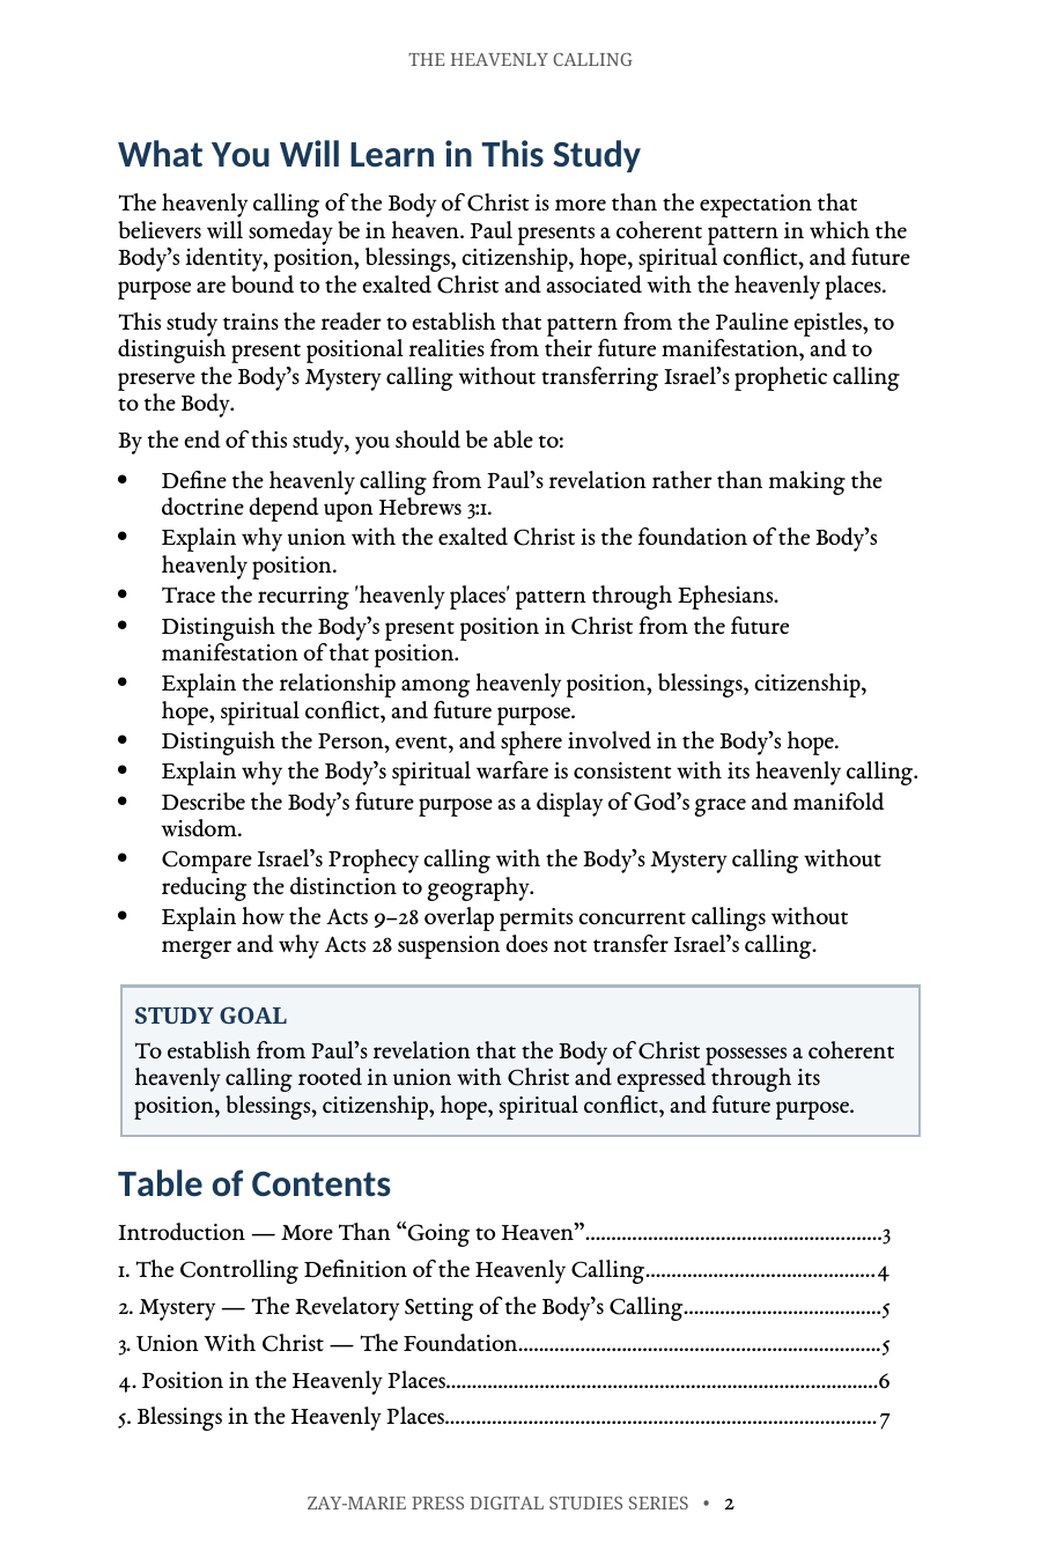
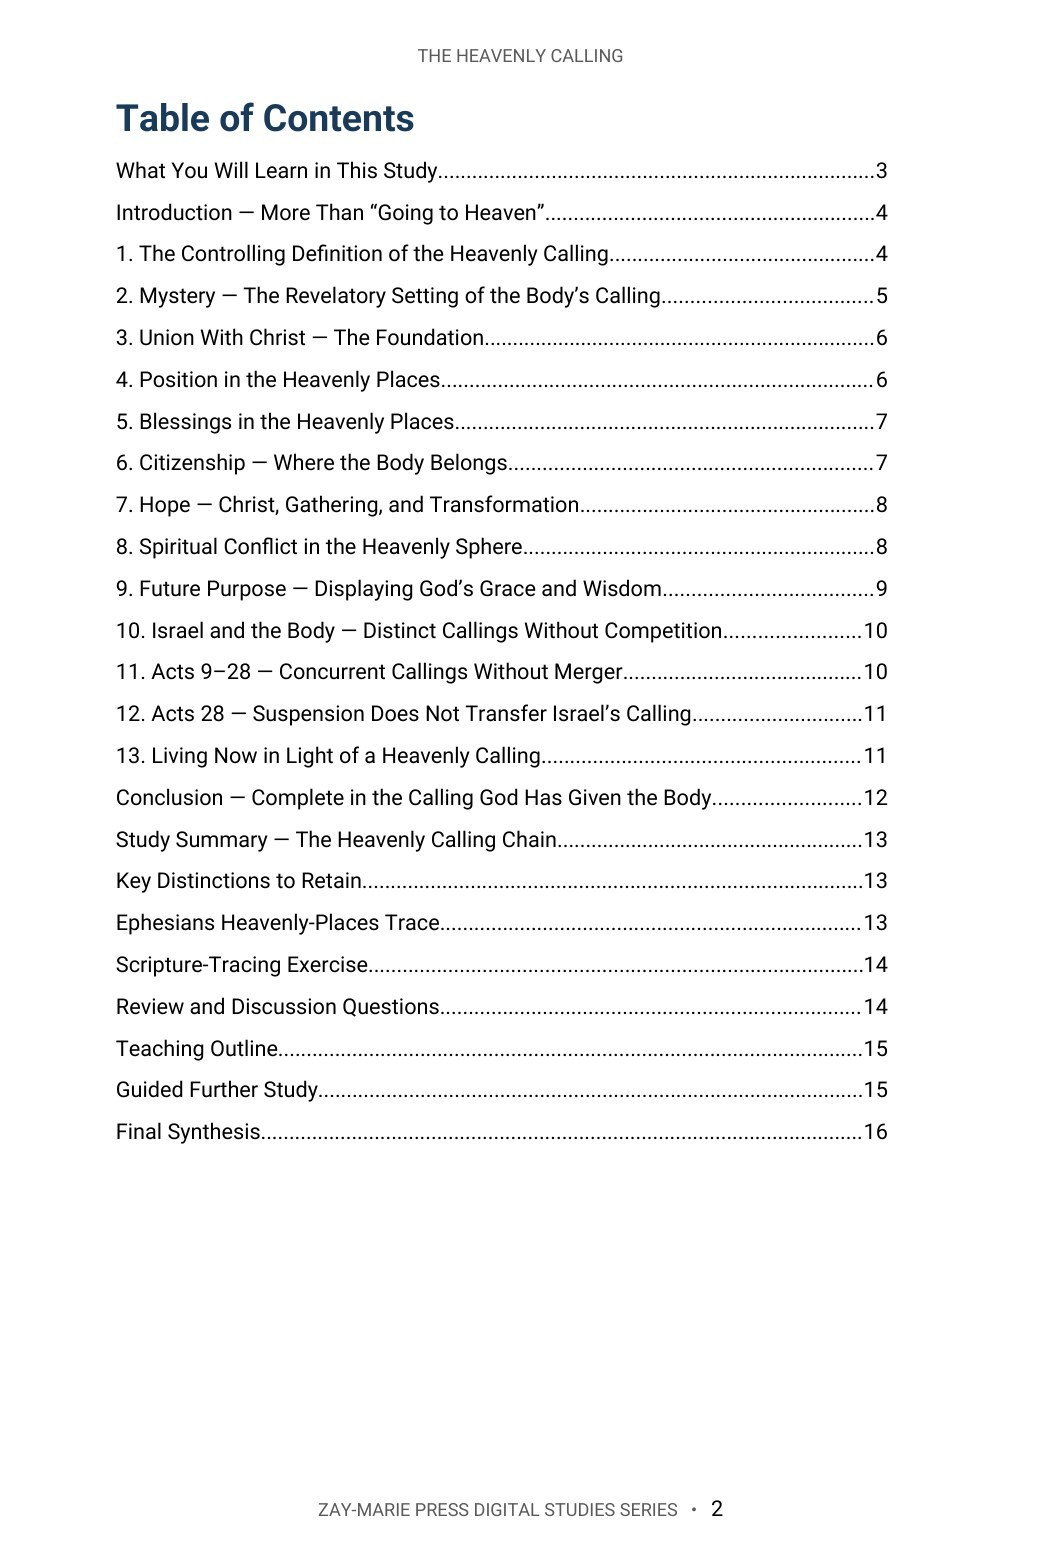
Study 5: Roboto rebuild, preview strip re-cut (TOC p2, WYWL p3, p8), 16 pages; audit tracker v1.28
Claude-Session: https://claude.ai/code/session_01TLNFW47XCW6YAMUxScR3v4

Changed region(s): [[0.0922, 0.0613, 0.8915, 0.9201], [0.3074, 0.9508, 0.707, 0.9815], [0.3996, 0.0307, 0.6148, 0.0613]]

diff --git a/study-05-the-heavenly-calling.html b/study-05-the-heavenly-calling.html
@@ -14,6 +14,6 @@
 <section class="detail-section soft"><div class="wrap"><div class="eyebrow">WHAT YOU’LL STUDY</div><h2>See the Heavenly Calling as One Coherent Pattern</h2><div class="study-points"><div class="study-point"><h3>The Calling Begins in Christ</h3><p>Establish union with the exalted Christ as the source of the Body’s position and purpose.</p></div><div class="study-point"><h3>Position and Blessings</h3><p>Examine the Body’s present position and spiritual blessings in the heavenly places in Christ.</p></div><div class="study-point"><h3>Citizenship, Hope, and Transformation</h3><p>Follow Paul’s teaching from heavenly citizenship to Christ-centered hope, gathering, and future transformation.</p></div><div class="study-point"><h3>Spiritual Conflict and Future Purpose</h3><p>See how the heavenly calling shapes present spiritual warfare and God’s display of grace and wisdom.</p></div><div class="study-point"><h3>Israel and the Body: Distinct Callings</h3><p>Preserve Israel’s prophetic, national, and Kingdom calling alongside the Body’s distinct Mystery calling.</p></div><div class="study-point"><h3>Acts 9–28 and Acts 28</h3><p>Confirm concurrent callings during the overlap and explain why suspension does not cancel or transfer Israel’s calling.</p></div></div></div></section>
 <section class="detail-section cream"><div class="wrap"><div class="eyebrow">KEY SCRIPTURES</div><h2>Examine the Passages for Yourself</h2><div class="scripture-grid"><div class="scripture-card"><h3>Romans 16:25–26</h3><p>Places the Body’s distinct calling within the Mystery kept secret and revealed through Paul.</p></div><div class="scripture-card"><h3>Ephesians 1:3</h3><p>Identifies the Body’s spiritual blessings as associated with the heavenly places in Christ.</p></div><div class="scripture-card"><h3>Ephesians 1:20–23; 2:6–7</h3><p>Connects Christ’s exaltation with the Body’s present position and future purpose.</p></div><div class="scripture-card"><h3>Philippians 3:20–21</h3><p>Joins heavenly citizenship with expectation, transformation, and conformity to Christ.</p></div><div class="scripture-card"><h3>Colossians 1:5, 27; 3:1–4</h3><p>Shows a hope centered upon Christ and a future manifestation with Him.</p></div><div class="scripture-card"><h3>Ephesians 6:10–18</h3><p>Describes the spiritual character of the Body’s present conflict and resources.</p></div><div class="scripture-card"><h3>Acts 3:21</h3><p>Locates Israel’s restitution hope within what God spoke through the prophets.</p></div><div class="scripture-card"><h3>Acts 28:25–28</h3><p>Marks the suspension of Israel’s active Prophecy Program while Mystery continues.</p></div></div></div></section>
 <section class="detail-section"><div class="wrap"><div class="eyebrow">FROM THE STUDY</div><h2>Christ-Centered Before Location-Centered</h2><div class="excerpt"><blockquote>“The heavenly calling is Christ-centered before it is location-centered. The Body possesses its heavenly position because it is in the exalted Christ.”</blockquote><p>The calling begins with union with Christ and unfolds through position, blessings, citizenship, hope, spiritual conflict, and future purpose. This full Pauline pattern preserves both the completeness of the Body’s calling and the distinctness of Israel’s prophetic promises.</p></div></div></section>
-<section class="detail-section soft"><div class="wrap"><div class="eyebrow">A LOOK INSIDE</div><h2>Preview the Study Before You Purchase</h2><p class="preview-instruction">Click any page to enlarge it for reading.</p><div class="preview-grid"><div class="preview-card"><a class="preview-image-link" data-preview-lightbox href="assets/study-05-page-2.jpg"><img src="assets/study-05-page-2.jpg" alt="Study 5 interior preview — page 2, the learning outcomes and the start of the contents list"/></a><div class="page-no">Page 2</div><h3>What You Will Learn</h3><p>See the study’s goals and the opening of the full contents list.</p></div><div class="preview-card"><a class="preview-image-link" data-preview-lightbox href="assets/study-05-page-3.jpg"><img src="assets/study-05-page-3.jpg" alt="Study 5 interior preview — page 3, table of contents continued and study outline"/></a><div class="page-no">Page 3</div><h3>Table of Contents and Study Outline</h3><p>Finish the contents list and see the outline that carries the study from calling to application.</p></div><div class="preview-card"><a class="preview-image-link" data-preview-lightbox href="assets/study-05-page-8.jpg"><img src="assets/study-05-page-8.jpg" alt="Study 5 interior preview — page 8, hope, gathering, and transformation"/></a><div class="page-no">Page 8</div><h3>Hope, Gathering, and Transformation</h3><p>Examine a hope centered upon Christ, the gathering, transformation, and the Body’s heavenly calling.</p></div></div></div></section>
+<section class="detail-section soft"><div class="wrap"><div class="eyebrow">A LOOK INSIDE</div><h2>Preview the Study Before You Purchase</h2><p class="preview-instruction">Click any page to enlarge it for reading.</p><div class="preview-grid"><div class="preview-card"><a class="preview-image-link" data-preview-lightbox href="assets/study-05-page-2.jpg"><img src="assets/study-05-page-2.jpg" alt="Study 5 interior preview — page 2, table of contents"/></a><div class="page-no">Page 2</div><h3>Table of Contents</h3><p>See the full structure of the study, from the introduction through the final synthesis.</p></div><div class="preview-card"><a class="preview-image-link" data-preview-lightbox href="assets/study-05-page-3.jpg"><img src="assets/study-05-page-3.jpg" alt="Study 5 interior preview — page 3, what you will learn and study outline"/></a><div class="page-no">Page 3</div><h3>What You Will Learn</h3><p>See the study’s goals for distinguishing the Body’s heavenly calling and the outline that carries the study from calling to application.</p></div><div class="preview-card"><a class="preview-image-link" data-preview-lightbox href="assets/study-05-page-8.jpg"><img src="assets/study-05-page-8.jpg" alt="Study 5 interior preview — page 8, hope, gathering, and transformation"/></a><div class="page-no">Page 8</div><h3>Hope, Gathering, and Transformation</h3><p>Examine a hope centered upon Christ, the gathering, transformation, and the Body’s heavenly calling.</p></div></div></div></section>
 <section class="detail-section"><div class="wrap"><div class="eyebrow">WHAT’S INCLUDED</div><h2>A Focused Study Built for<br/>Understanding and Teaching</h2><div class="includes-grid"><div class="include-item"><h3>16-Page In-Depth Biblical Study</h3><p>A coherent Pauline case for the Body’s position, hope, purpose, and heavenly character in Christ.</p></div><div class="include-item"><h3>13 Core Teaching Sections</h3><p>Build the full pattern from union with Christ through future purpose and present conduct.</p></div><div class="include-item"><h3>Heavenly Calling Chain</h3><p>Follow the argument from union and position to blessings, citizenship, hope, conflict, and purpose.</p></div><div class="include-item"><h3>Scripture-Tracing Exercise</h3><p>Distinguish what each passage says about Christ, the Body, present position, and future manifestation.</p></div><div class="include-item"><h3>15 Review &amp; Discussion Questions</h3><p>Test the complete argument, including hope, conflict, distinct callings, the overlap, and Acts 28.</p></div><div class="include-item"><h3>Teaching Outline</h3><p>A ready framework for teaching the calling’s Christ-centered source, full pattern, and application.</p></div><div class="include-item"><h3>Eight Guided Investigations</h3><p>Study union with Christ, heavenly places, hope, warfare, grace, Israel’s calling, and the Acts Overlap.</p></div><div class="include-item"><h3>Final Synthesis Exercise</h3><p>Write a two- to three-page explanation that reconstructs the full heavenly-calling chain.</p></div></div></div></section>
 <section class="detail-section cream"><div class="wrap"><div class="final-buy"><div><div class="eyebrow">STUDY 5 · DIGITAL STUDY</div><h2>The Heavenly Calling</h2><p>16-page digital PDF · For personal use</p></div><div class="final-offer"><div class="detail-price">$5.99</div><span class="detail-button pending" aria-disabled="true">Checkout Coming Soon</span></div></div><a class="back-link" href="digital-studies.html">← Back to All Digital Studies</a></div></section><section class="study-method-course-bridge"><div class="wrap"><div class="study-method-course-panel"><div><div class="eyebrow">BUILD THE INTERPRETIVE METHOD</div><h2>Want More Than a Focused Study?</h2><p>Digital Studies examine particular biblical subjects and difficult passages. The 40-lesson Biblical Hermeneutics course teaches a complete, repeatable method for establishing meaning in context, determining proper assignment, and making responsible application.</p></div><a class="btn btn-primary" href="biblical-hermeneutics-course.html">BIBLICAL HERMENEUTICS COURSE</a></div></div></section></main><div class="preview-lightbox" id="preview-lightbox" role="dialog" aria-modal="true" aria-label="Enlarged study page preview"><button class="preview-lightbox-close" type="button" aria-label="Close enlarged preview">×</button><img src="" alt=""/><div class="preview-lightbox-hint">Scroll to read the full page · Press Esc or click outside the page to close</div></div><footer class="site-footer"><div class="wrap footer-grid"><div class="footer-about"><h3>Zay-Marie Press</h3><p class="footer-tagline"><em>Where the Bible Means What It Says.</em></p><p>Zay-Marie Press is a Christian theological publisher dedicated to producing doctrinally precise, carefully structured biblical resources that equip pastors, teachers, and serious students with clarity, depth, and Scripture-anchored truth.</p><p><a href="https://zaymariepress.com">zaymariepress.com</a><br/><a href="mailto:info@zaymariepress.com">info@zaymariepress.com</a></p></div><div class="footer-column"><h3>Explore</h3><div class="footer-links-stacked"><a href="books.html">Books</a><br/><a href="series.html">Series</a><br/><a href="biblical-hermeneutics-course.html">Course</a><br/><a href="digital-studies.html">Digital Studies</a><br/><a href="resources.html">Resources</a><br/><a href="bible-book-summaries.html">Bible Book Summaries</a><br/><a href="doctrinal-packets.html">Doctrinal Packets</a><br/><a href="historical-drift.html">Historical Drift</a><br/><a href="about.html">About</a><br/><a href="contact.html">Contact</a></div></div><div class="footer-column"><h3>Reader Support</h3><div class="footer-links-stacked"><a href="reader-support.html#faq">FAQ</a><br/><a href="reader-support.html#shipping-returns">Shipping &amp; Returns</a><br/><a href="reader-support.html#digital-downloads">Digital Downloads</a><br/><a href="reader-support.html#contact-support">Contact Support</a></div></div><div class="footer-column"><h3>Acts Overlap</h3><p><strong>Acts Overlap Theology Series</strong></p><p><em>Two Distinct Streams. One Overlap.</em></p><p><a href="series.html">Series Overview</a></p></div></div><div class="wrap footer-bottom">© 2026 Zay-Marie Press. All rights reserved.</div></footer><script src="site.js"></script><script>(function(){var box=document.getElementById("preview-lightbox"),img=box.querySelector("img"),close=box.querySelector(".preview-lightbox-close"),hint=box.querySelector(".preview-lightbox-hint"),hintTimer;function shut(){clearTimeout(hintTimer);box.classList.remove("open");hint.classList.remove("fade");document.body.style.overflow="";img.src=""}document.querySelectorAll("[data-preview-lightbox]").forEach(function(a){a.addEventListener("click",function(e){e.preventDefault();clearTimeout(hintTimer);img.src=a.getAttribute("href");img.alt=a.querySelector("img").alt;hint.classList.remove("fade");box.classList.add("open");document.body.style.overflow="hidden";box.scrollTop=0;hintTimer=setTimeout(function(){hint.classList.add("fade")},3000)})});close.addEventListener("click",shut);box.addEventListener("click",function(e){if(e.target===box)shut()});document.addEventListener("keydown",function(e){if(e.key==="Escape"&&box.classList.contains("open"))shut()})})();</script></body></html>

diff --git a/controlling-documents/Digital_Studies_PAM_Audit_v1.28.md b/controlling-documents/Digital_Studies_PAM_Audit_v1.28.md
@@ -1,4 +1,4 @@
-# Digital Studies vs. PAM Audit — v1.27
+# Digital Studies vs. PAM Audit — v1.28
 
 Working tracker and instructions for checking the Digital Studies against the Program Assignment Manual (PAM), §XIX of `Framework_Control_Document_Acts_Overlap.docx`, including its "Section 4 — Publisher Rulings". Same `_vX.Y` convention as the other controlling documents: update the status table and changelog as the audit proceeds, bump the version, and rename the file to match.
 
@@ -254,3 +254,4 @@ Study 15 PDF not yet supplied. Typography: none of Studies 2, 3, 6, 8 is in EB G
 - v1.25 (2026-09-30): Study 3 approved by the publisher as built ("i approve": 18 pages, cover plus 17 interior) and pushed. Interior rebuilt in Roboto from the publisher's Production Master DOCX: five boxed callouts (the other twelve became body paragraphs with a bold run-in lead, wording unchanged), table of contents first with a What You Will Learn entry, blank spacer paragraphs removed, Standard spacing, tables restyled, front copyright page moved into the end imprint, footer text "DIGITAL STUDIES SERIES", review questions renumbered 1-12 (were 12-23), narrower margins (0.58 in). Website: preview strip reduced from four cards (pages 3, 11, 12, 17) to the three required by section 16: Page 2 Table of Contents, Page 3 What You Will Learn, Page 11 Rapture and Prophetic Second Coming; images re-cut from the rebuilt PDF at 1041 x 1565 (6 x 9 in page); old pages 12, 14 and 17 removed; page count 20 to 18 in site.js, the What's Included card and the buy panel. The publisher swaps the purchasable PDF himself. Not checked live (Cloudflare Access sign-in); checked locally at 1280, 390, 360 and 320 px.
 - v1.26 (2026-09-30): Study 4 approved by the publisher as built (18 pages, cover plus 17 interior, same as Study 3) and pushed. Interior rebuilt in Roboto from the publisher's Production Master DOCX to Master Standard v1.28: five boxed callouts (Study Goal, Interpretive Control in the Introduction, Summary Control, Acts Overlap Control, Final Control; the other 19 became body paragraphs with a bold run-in lead, wording unchanged); table of contents first with a What You Will Learn entry; the TOC placeholder line "Final page numbers will be inserted during the publisher-grade production pass." removed (section 5); review questions renumbered 1-13; copyright moved to the end imprint. Website: preview strip reduced from four cards to three (Page 2 Table of Contents, Page 3 What You Will Learn, Page 6 Different Identities: Nation and Body), images re-cut at 1041 x 1565; old pages 8, 14 and 17 removed; page count 20 to 18 in site.js, the What's Included card and the buy panel. Not checked live (Cloudflare Access sign-in); checked locally at 1280, 390, 360 and 320 px. The publisher swaps the purchasable PDF himself.
 - v1.27 (2026-09-30): Master Standard v1.29 (publisher directive): Table of Contents entries use the body-paragraph spacing (6 pt after, 1.08 line spacing) instead of compressed spacing, as first shown in Study 5; applies from Study 6 forward, and the TOCs of Studies 1-5 and 9 are not reopened. Study 5 rebuilt in Roboto to Master Standard v1.28/v1.29 as a review copy (16 pages, five boxed callouts, review questions 1-15), awaiting the publisher's approval; not pushed.
+- v1.28 (2026-09-30): Study 5 approved by the publisher ("i approve study 5") and pushed: Roboto rebuild to Master Standard v1.28/v1.29, 16 pages (cover plus 15 interior), five boxed callouts (Study Goal, Interpretive Control in the Introduction, Controlling Definition, Acts Overlap Control, Final Control; the other 17 became body paragraphs with a bold run-in lead), TOC at body-paragraph spacing, review questions 1-15, copyright in the end imprint, margins kept near the supplied 0.67 in. Website: preview strip kept at three cards but re-ordered and re-cut from the rebuilt PDF (Page 2 Table of Contents, Page 3 What You Will Learn, Page 8 Hope, Gathering, and Transformation; images at 1041 x 1565); old unreferenced images for pages 11 and 16 removed; page count unchanged at 16. Not checked live (Cloudflare Access sign-in); checked locally at 1280, 390, 360 and 320 px. The publisher swaps the purchasable PDF himself.
